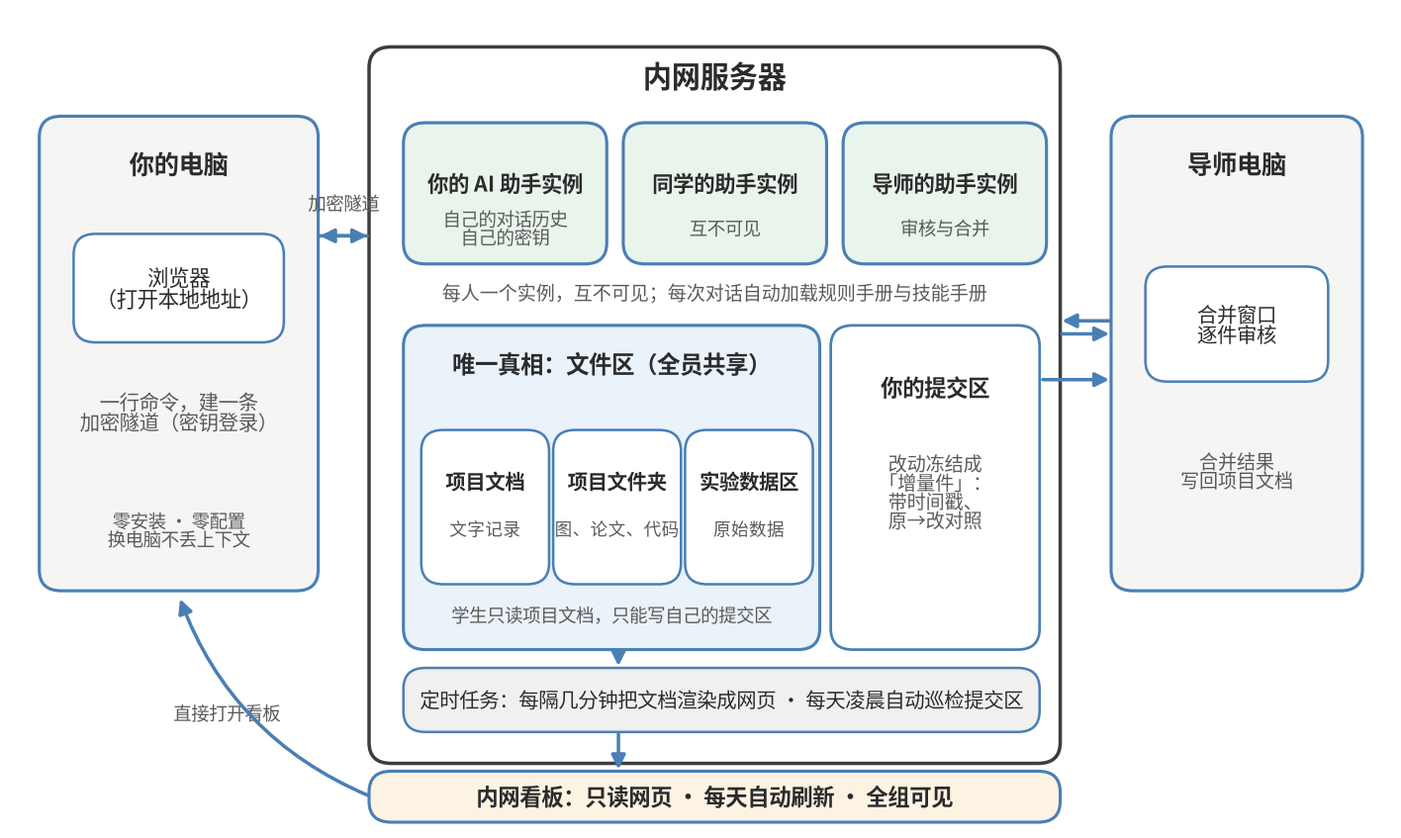
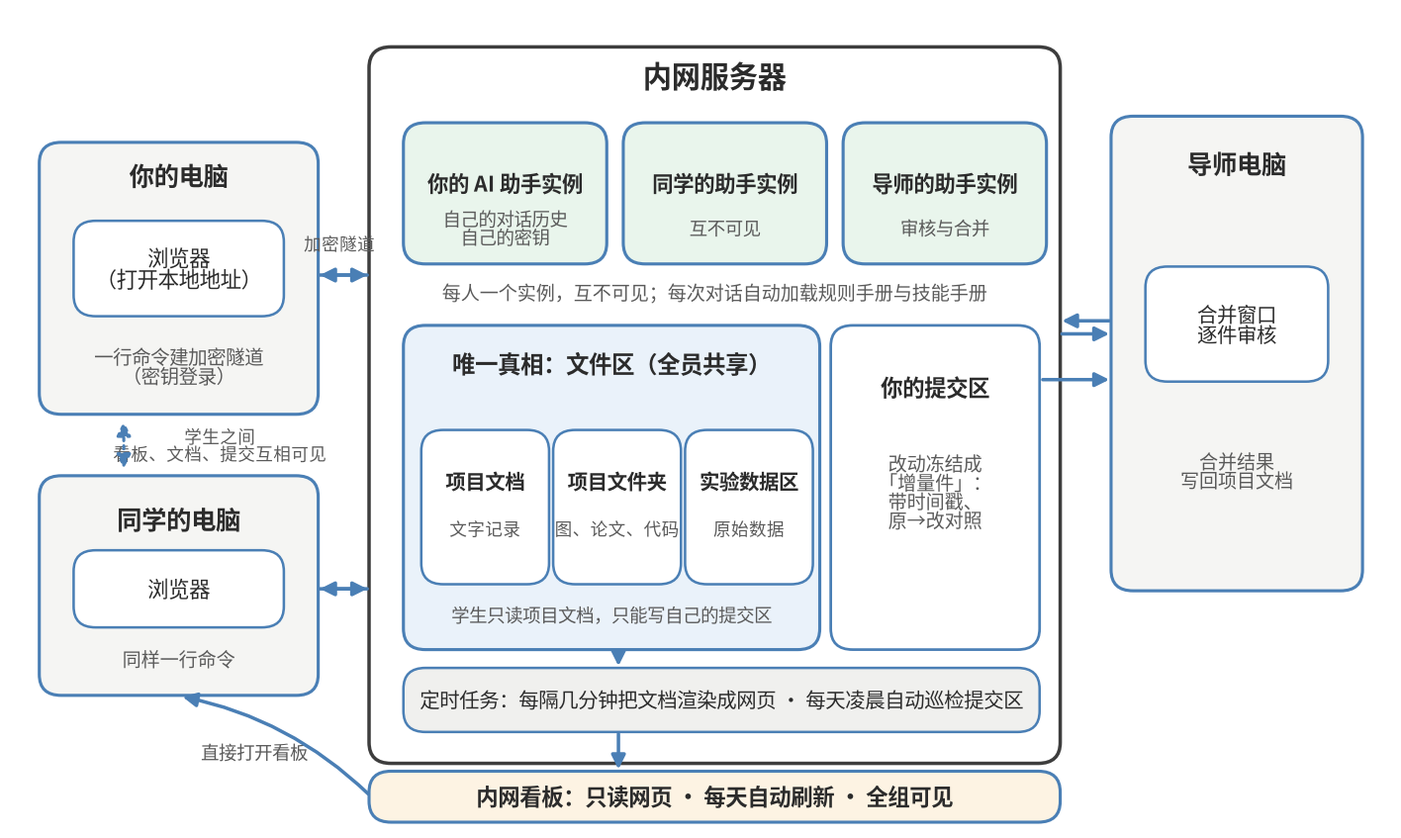
rebuilding site Fri Nov 27 07:54:58 AM CST 2026

Changed region(s): [[0.0, 0.1228, 0.2797, 0.9516], [0.2175, 0.7981, 0.2486, 0.8288]]

diff --git a/zh/post/xliu-35-ai-workflow-student-guide/index.html b/zh/post/xliu-35-ai-workflow-student-guide/index.html
@@ -1,1 +1,1 @@
-<!doctype html><html lang=zh><head><meta charset=utf-8><meta http-equiv=X-UA-Compatible content="IE=edge,chrome=1"><title>从实验记录到组会汇报：我们课题组的 AI 协作工作流 - 刘训臣 | 山东科技大学 激光诊断实验室</title><meta name=viewport content="width=device-width,minimum-scale=1"><meta name=description content="学生视角的科研工作流：每天只写一条子课题步骤、每周一次四段论提交、内网看板每天可见——AI 助手在服务器上，人只管做实验、说一句话；文章也讲清了这套系统背后是怎么搭起来的"><meta name=generator content="Hugo 0.169.0"><meta name=robots content="index, follow"><meta name=author content="刘训臣"><link rel=stylesheet href=/xliu-group/ananke/css/main.02a37ad6c4e155c542d276915a0e3f83f5c7c5fec443350f6e60753f1679b7a7.css integrity="sha256-AqN61sThVcVC0naRWg4/g/XHxf7EQzUPbmB1PxZ5t6c=" crossorigin=anonymous><link rel=stylesheet href=/xliu-group/css/tables.css><script>(function(){"use strict";function t(){for(var t=document.querySelectorAll(".code-block .code-copy[hidden]"),e=0;e<t.length;e++)t[e].hidden=!1}document.readyState==="loading"?document.addEventListener("DOMContentLoaded",t):t();function e(e){var t=e.querySelector(".code-copy-label"),n=t?t.textContent:null;e.classList.add("is-copied"),t&&(t.textContent="Copied"),window.setTimeout(function(){e.classList.remove("is-copied"),t&&n!==null&&(t.textContent=n)},2e3)}function n(e){var n,t=document.createElement("textarea");t.value=e,t.setAttribute("readonly",""),t.style.position="absolute",t.style.left="-9999px",document.body.appendChild(t),t.select(),n=!1;try{n=document.execCommand("copy")}catch{n=!1}return document.body.removeChild(t),n}function s(t){var s,o,a,i=t.closest(".code-block");if(!i)return;if(s=i.querySelector("pre"),!s)return;a=s.querySelector("code")||s,o=a.innerText,navigator.clipboard&&navigator.clipboard.writeText?navigator.clipboard.writeText(o).then(function(){e(t)},function(){n(o)&&e(t)}):n(o)&&e(t)}document.addEventListener("click",function(e){var t=e.target.closest(".code-copy");t&&s(t)})})()</script><link rel=canonical href=https://liuxunchen.github.io/xliu-group/zh/post/xliu-35-ai-workflow-student-guide/><meta property="og:url" content="https://liuxunchen.github.io/xliu-group/zh/post/xliu-35-ai-workflow-student-guide/"><meta property="og:site_name" content="刘训臣 | 山东科技大学 激光诊断实验室"><meta property="og:title" content="从实验记录到组会汇报：我们课题组的 AI 协作工作流"><meta property="og:description" content="学生视角的科研工作流：每天只写一条子课题步骤、每周一次四段论提交、内网看板每天可见——AI 助手在服务器上，人只管做实验、说一句话；文章也讲清了这套系统背后是怎么搭起来的"><meta property="og:locale" content="zh"><meta property="og:type" content="article"><meta property="article:section" content="post"><meta property="article:published_time" content="2026-11-26T00:00:00+00:00"><meta property="article:modified_time" content="2026-11-26T00:00:00+00:00"><meta property="article:tag" content="教程"><meta itemprop=name content="从实验记录到组会汇报：我们课题组的 AI 协作工作流"><meta itemprop=description content="学生视角的科研工作流：每天只写一条子课题步骤、每周一次四段论提交、内网看板每天可见——AI 助手在服务器上，人只管做实验、说一句话；文章也讲清了这套系统背后是怎么搭起来的"><meta itemprop=datePublished content="2026-11-26T00:00:00+00:00"><meta itemprop=dateModified content="2026-11-26T00:00:00+00:00"><meta itemprop=wordCount content="4559"><meta itemprop=keywords content="教程"><meta name=twitter:card content="summary"><meta name=twitter:title content="从实验记录到组会汇报：我们课题组的 AI 协作工作流"><meta name=twitter:description content="学生视角的科研工作流：每天只写一条子课题步骤、每周一次四段论提交、内网看板每天可见——AI 助手在服务器上，人只管做实验、说一句话；文章也讲清了这套系统背后是怎么搭起来的"><script>if(typeof MathJax=="undefined"){window.MathJax={tex:{inlineMath:[["$","$"]],displayMath:[["$$","$$"]]}};const e=document.createElement("script");e.src="https://cdn.bootcss.com/mathjax/3.0.5/es5/tex-mml-chtml.js",e.async=!0,e.crossOrigin="anonymous",document.head.appendChild(e),console.log("MathJax initialized")}</script></head><body class="ma0 avenir bg-near-white production"><style>@media screen and (min-width:480px){#featured-image-948f0d8aba557b556c65e08e7a0b98b6{background-image:url(/xliu-group/zh/post/xliu-35-ai-workflow-student-guide/fig-week-loop_hu_6e3d5251b9c20d22.png)}}@media screen and (min-width:960px){#featured-image-948f0d8aba557b556c65e08e7a0b98b6{background-image:url(/xliu-group/zh/post/xliu-35-ai-workflow-student-guide/fig-week-loop_hu_e4530177b0d14208.png)}}@media screen and (min-width:1440px){#featured-image-948f0d8aba557b556c65e08e7a0b98b6{background-image:url(/xliu-group/zh/post/xliu-35-ai-workflow-student-guide/fig-week-loop_hu_48152c4692202599.png)}}</style><header id=featured-image-948f0d8aba557b556c65e08e7a0b98b6 class="cover bg-center" style=background-image:url(/xliu-group/zh/post/xliu-35-ai-workflow-student-guide/fig-week-loop_hu_6e3d5251b9c20d22.png)><div class=bg-black-60><nav class="pv3 ph3 ph4-ns" role=navigation><div class="flex-l center items-center justify-between"><a href=/xliu-group/zh/ class="f3 fw2 hover-white white-90 dib no-underline"><img src=/xliu-group/images/logo2.jpg class="w100 mw5-ns" alt="刘训臣 | 山东科技大学 激光诊断实验室"></a><div class="flex-l items-center"><ul class="pl0 mr3"><li class="list f5 f4-ns fw4 dib pr3"><a class="hover-white white-90 no-underline" href=/xliu-group/zh/research/ title="Research 页">Research</a></li><li class="list f5 f4-ns fw4 dib pr3"><a class="hover-white white-90 no-underline" href=/xliu-group/zh/teaching/ title="Teaching 页">Teaching</a></li><li class="list f5 f4-ns fw4 dib pr3"><a class="hover-white white-90 no-underline" href=/xliu-group/zh/paper/ title="Paper 页">Paper</a></li><li class="list f5 f4-ns fw4 dib pr3"><a class="hover-white white-90 no-underline" href=/xliu-group/zh/search/ title="Search 页">Search</a></li><li class="list f5 f4-ns fw4 dib pr3"><a class="hover-white white-90 no-underline" href=/xliu-group/zh/news/ title="News 页">News</a></li><li class="list f5 f4-ns fw4 dib pr3"><a class="hover-white white-90 no-underline" href=/xliu-group/zh/people/ title="People 页">People</a></li><li class="list f5 f4-ns fw4 dib pr3"><a class="hover-white white-90 no-underline" href=/xliu-group/zh/post/ title="Post 页">Post</a></li></ul><div class=ananke-socials></div></div></div></nav><div class="tc-l pv6 ph3 ph4-ns"><div class="f2 f1-l fw2 white-90 mb0 lh-title">从实验记录到组会汇报：我们课题组的 AI 协作工作流</div></div></div></header><main class=pb7 role=main><div class="flex-l mt2 mw8 center"><article class="page-xliu-35-ai-workflow-student-guide center cf pv5 ph3 ph4-ns mw7"><header><h1 class=f1>从实验记录到组会汇报：我们课题组的 AI 协作工作流</h1><p class=tracked><strong>刘训臣</strong><time class="f6 fw4 light-silver ml2" datetime=2026-11-26>2026-11-26</time></p></header><div class="nested-copy-line-height lh-copy f4 nested-links blue"><blockquote><p>这是一篇写给新同学看的经验帖：我们实验室怎么用「服务器上的 AI 助手 + 内网看板」，把日常实验记录、提交、组会汇报串成一条线。文中截图来自组内看板（内网只读页面，2026-11-26 的快照），示意图由我们绘制。</p></blockquote><h2 id=一先解决三个问题>一、先解决三个问题</h2><p>刚进组的时候，记录是散的：实验日志在某台电脑的某个文件夹里，图在另一个地方，组会前一天才开始回想这周到底做了什么；笔记本、台式机、服务器各存一份，谁也说不清哪份是最新。</p><p>后来我们定了很朴素的三条规矩：</p><ol><li><strong>两个唯一真相</strong>：文字记录只写进<strong>项目文档</strong>（服务器上的 Markdown 文件）；图、论文、代码等文件只存<strong>项目文件夹</strong>；原始大数据进<strong>实验数据区</strong>（统一目录，处理过程与原始数据同放）。</li><li><strong>每天只做一件手写的事</strong>：把当天做的实验、仿真或数据处理，记成一条<strong>子课题步骤</strong>。</li><li><strong>AI 助手在服务器上运行，不在你自己的电脑上</strong>：你只要一条隧道加一个浏览器（或内网网页），记录、整理、生成汇报、提交都在服务器上完成；本机只做必须用图形界面的事——画图、采集数据、建模。</li></ol><p>听上去约束不少，但换来的是：所有东西可追溯、组会不用现攒、换了会话 AI 也能接上。</p><h2 id=二一周怎么跑>二、一周怎么跑</h2><figure><img src=/xliu-group/zh/post/xliu-35-ai-workflow-student-guide/fig-week-loop.png><figcaption><h4>图 1　学生视角的一周闭环：每天只写一条步骤，四段论与任务表由助手从步骤自动生成</h4></figcaption></figure><p><strong>每天开工：问一句"今天做什么"。</strong> 助手会带你过一遍"开工六看"：身份与端口信息、本周组会记录里的任务表（你这行）、@你的待办、你项目文档里的本周步骤、组内博客最新更新、内网看板的每日体检。确认今天的优先级，就可以开工了。</p><p><strong>做完就记：一条步骤。</strong> 这是全程唯一要手写的东西。比如"今天在平面火焰台上做了三个工况的点火实验，测到点火延迟随当量比的变化，图已存项目文件夹，原始数据在实验数据区"。写清目的、方法、结果和产物——<strong>文字进项目文档，图进项目文件夹，原始数据进实验数据区并登记</strong>。当天事当天记，不攒到周五。</p><p><strong>周三：口头讲进展。</strong> 说一句"本周进展"，助手从本周步骤自动汇总要点，你在组会上直接讲——<strong>要点只从步骤来</strong>。步骤没写，汇报就没有内容，这反过来逼着大家平时就记。</p><p><strong>周五 9:00 前：准备组会。</strong> 顺序固定三步：先<strong>体检本周步骤</strong>（有没有漏记、上周计划是否都有对应步骤）→ 由步骤<strong>自动生成四段论</strong>（已完成 / 未完成+原因 / 下周计划 / 安全核可表）→ 把本周改动<strong>冻结成一个提交件</strong>上传。<strong>四段论不手写</strong>——手写的四段论如果指不回具体步骤，会被退回。</p><p><strong>组会后：合并与验收。</strong> 导师按时间链逐件看、逐件合并，合并结果回写到项目文档；下周一组会逐项验收，验收不通过就退回。<strong>下周计划直接从"没闭环的任务"里取</strong>，不需要凭空想。</p><h2 id=三提交件长什么样>三、提交件长什么样</h2><figure><img src=/xliu-group/zh/post/xliu-35-ai-workflow-student-guide/fig-pr-chain.png><figcaption><h4>图 2　提交件 = 增量链：一次一版、逐件累加合并</h4></figcaption></figure><p>我们的提交件叫<strong>增量件</strong>：每次提交<strong>冻结一个新文件</strong>，文件名带时间戳和类型标识（平时记步骤的"工作件"、周五汇报用的"周五件"），<strong>不覆盖自己上一次，也不覆盖别人</strong>。每件只写本次改动，件内必须自带两样东西：</p><ul><li><strong>「原→改」对照</strong>：这一处原来是什么、改成什么，方便导师核对；</li><li><strong>「改后新片段」</strong>：可以直接粘贴的完整片段，粒度至少到一条完整步骤（或整节、整篇替换块）。</li></ul><p>再加<strong>三件配套</strong>：① 文档增量件本身；② 涉及的图已上传到项目文件夹、并在文中用图片语法引用；③ 本周实验数据已提交到实验数据区。件头写清提交人、时间戳和基线（相对哪一版项目文档）。</p><p>不合格会被<strong>退回</strong>：文件名加上"退回 + 原因"标记，内网看板上一眼能看到。退回原因就七类：缺合规声明、四段论缺段、无步骤编号、步骤引用无效、缺改动对照、声明不一致、安全核可表的设备清单模糊。重交件必须完整自足，旧件即时归档。</p><h2 id=四内网看板把组会前才知道变成每天可见>四、内网看板：把"组会前才知道"变成"每天可见"</h2><p>我们有一个内网只读看板，每天自动刷新。它不存第二份真相，只是把服务器上的唯一真相<strong>汇总成视图</strong>：</p><figure><img src=/xliu-group/zh/post/xliu-35-ai-workflow-student-guide/fig-board-daily.jpg><figcaption><h4>图 3　内网看板主页（局部）：每日体检按「今天是一周里的哪一天」切换检查标准</h4></figcaption></figure><ul><li><strong>每日体检</strong>：按"今天是一周里的哪一天"切标准——日程体检看实验场次有没有撞上上课时间；核可表冲突看跨项目是否在同一时段共用设备、场地、人员。自己项目被点名，当天先核对。</li><li><strong>本周日程 + 项目文档总览</strong>：一张表看全周实验场次；每份项目文档的负责人、参与人和本周进度体检（步骤是否更新、周五件是否已交）一眼可见。</li><li><strong>组会记录页</strong>：每周一份档案，过程记录、任务表、待办、周总结都在里面，按周归档、一页直达。</li><li><strong>文档总览页</strong>：规则、模板、技能索引一页列出，找格式、找流程不用翻文件夹。</li></ul><figure><img src=/xliu-group/zh/post/xliu-35-ai-workflow-student-guide/fig-board-pr.jpg><figcaption><h4>图 4　PR 清零状态（看板页脚）：每天凌晨自动巡检提交区，把待处理件清到 0，页面直接显示件数、归档数与巡检时间</h4></figcaption></figure><p>还有<strong>学生提交件页</strong>和<strong>学生草稿页</strong>：前者是导师审阅入口，也是学生自己查"有没有带退回标记的件"的地方；后者汇总每人最新的博客与主页草稿。</p><h2 id=五这些功能是怎么搭起来的幕后版>五、这些功能是怎么搭起来的（幕后版）</h2><p>前四节讲的是"怎么用"，这一节讲"背后是什么"。说实话，我们自己也是用了一阵才搞明白：我们看到的只是一个对话窗口，真正干活的是<strong>服务器上的助手 + 两本手册 + 两份文件真相 + 一条自动渲染看板的流水线</strong>。</p><figure><img src=/xliu-group/zh/post/xliu-35-ai-workflow-student-guide/fig-architecture.png><figcaption><h4>图 5　幕后示意：每人一个助手实例，共享同一套文件真相；看板由服务器上的定时任务从文件渲染</h4></figcaption></figure><p><strong>一台服务器，每人一个助手。</strong> 我们用的助手是一个智能体运行时（DeepSeek Harness，简称 DSH）——它给大模型装上"读文件、写文件、跑命令"的手脚，再加一个网页界面。整个组共用一台内网服务器，<strong>每人一个独立实例</strong>：自己的账号、自己的对话历史、自己的密钥，互不可见。助手服务只监听服务器本机，网页上不设密码；我们每人用自己的服务器账户连一条加密隧道，把它映射到本机浏览器——<strong>本机零安装，换电脑只要重新敲一行命令</strong>，软件、密钥、会话历史都在服务器上你自己的账户里。每个实例都是一个常驻服务：开机自动拉起、崩了自动重启，升级和维护由导师那边统一做，我们只管用。</p><p><strong>权限写在服务器账户上。</strong> 谁能读什么、改什么，由服务器账户权限定死：项目文档区全员可读、学生只读；学生只能写自己的提交区、自己的项目文件夹和数据区。所以"提交走对话"不只是纪律——<strong>你直接在服务器上改项目文档，技术上就改不了</strong>，这正好和"提交件只含改动"的设计咬合在一起。</p><p><strong>两份文件真相。</strong> 助手的大脑是模型，但<strong>它的记忆全在服务器文件里</strong>：文字真相是每个项目一份的 Markdown 项目文档（项目概况、每周记录、子课题步骤……），图、论文、代码进项目文件夹，原始数据进实验数据区。模型本身不"记得"你上周干了什么——这正是"换一个会话、换一个助手也能接上"的原因：上下文不在模型脑子里，在文件里。</p><p><strong>两本手册。</strong> 光有模型和文件还不够，还得规定"怎么读、怎么写、按什么格式"。服务器上有两本手册，每次对话自动加载：<strong>规则手册</strong>——工作纪律、文档模板、口令表，全组读同一份，所以每个助手的行为一致；<strong>技能手册</strong>——每个标准动作一份分步说明，&ldquo;开工六看"&ldquo;记一条子课题"&ldquo;准备组会"&ldquo;上传数据"&ldquo;发博客"都是技能。助手不是凭感觉干，<strong>是按手册一步一步做</strong>。</p><p><strong>大模型具体在干什么。</strong> 模型只会两件事：听懂你的话、调用工具（读文件、写文件、跑命令、查网页）。我们用的那些功能，都是"读文件 → 按手册处理 → 写文件"的组合：</p><ul><li><strong>&ldquo;今天做什么&rdquo;</strong>：按"开工六看"技能，读本周组会记录（任务表里你的行、@你的待办）、你的项目文档（本周步骤）、看板上的每日体检——再按固定模板汇总给你。<strong>回答不是模型想出来的，是从文件里查出来的</strong>，所以每条都能指回原文。</li><li><strong>&ldquo;记一条子课题&rdquo;</strong>：把你口述的内容按模板整理成一条步骤，写进提交区的工作件，并渲染成网页让你当场预览。</li><li><strong>四段论</strong>：把本周所有步骤读出来，按"已完成 / 未完成+原因 / 下周计划 / 安全核可表"的规则逐条归类，每条标注对应步骤编号。<strong>四段论永远指得回步骤</strong>——它是从步骤汇总出来的视图，不是模型编的总结。</li><li><strong>提交件</strong>：先读服务器上最新版的项目文档，把你本周的改动冻结成一个带时间戳的新文件，件内自动生成"原→改"对照和可以直接粘贴的改后片段。导师在合并窗口逐件审核、合并回项目文档。</li><li><strong>看板</strong>：不是模型实时画的，而是<strong>服务器上的定时任务</strong>每隔几分钟把项目文档渲染成网页（每日体检、本周日程、文档总表、提交区状态），每天凌晨自动巡检提交区。模型只是这条流水线里"写文件"的一环，看板永远反映文件的真实状态。</li></ul><p><strong>为什么这样设计。</strong> 一句话：<strong>把"判断"留给模型，把"记忆"和"流程"留在文件与手册里。</strong> 模型会换、偶尔会错、上下文会丢；只要文件在、规则在、技能在，任何一个助手都能接着干。我们学生要做的，就是把该记的记进文件——剩下的交给这套组合。</p><h2 id=六踩过的坑都真踩过>六、踩过的坑（都真踩过）</h2><ol><li><strong>只传不报 = 没上传。</strong> 用 rsync 把文件丢上服务器，却没在对话里说、没登记、没随提交件提交——导师看不到、AI 不知道，等于没做。</li><li><strong>图只写文件名 = 看不到。</strong> 文档里只写"图 1、图 2"而没用图片语法引用原图，看板渲染出来是没有图的，直接判违规退回。</li><li><strong>四段论手写 = 退回。</strong> 手写四段论容易编，条目也指不回步骤；正确做法是记好步骤，让助手生成。</li><li><strong>提交件不带改动对照 = 退回。</strong> 只给结论、不给「原→改」和改后片段，导师没法核，退回重交。</li><li><strong>基线过期 = 整篇对不上。</strong> 改文档必须从服务器最新版出发；拿旧副本改出来的差异整篇都错，只能重做。</li><li><strong>文件权限不对 = 导师读不到 = 没提交。</strong> 写完立刻自查权限（应为全组可读、组为 students），不对当场修；现在系统每 5 分钟自动兜底一次，但不能依赖它。</li><li><strong>组会前几分钟才交。</strong> 周五件至少提前 3 小时（9:00 前）提交，否则组会没法看、合并窗口也来不及。</li><li><strong>一次改一大片。</strong> 一条任务只做一件事；一次提交只含当次改动。大改用整节替换块，不要写"半截改动&rdquo;。</li></ol><h2 id=七这套做法带来了什么>七、这套做法带来了什么</h2><ul><li><strong>组会不再现攒</strong>：四段论从平时的步骤自动生成，周五只是"确认 + 提交&rdquo;。</li><li><strong>可追溯</strong>：每条结论都能回到某条步骤、某次提交、某个时间点；导师的每条指导都有编号、状态和验收记录。</li><li><strong>AI 接得续</strong>：换一个会话、换一个助手，读一遍项目文档和组会记录就能接上，不需要你重新讲一遍背景。</li><li><strong>数据不丢</strong>：文字、图、原始数据各有唯一去处，临时文件不进同步盘。</li><li><strong>新人上手快</strong>：规则一页读完（工作规则 + 连接卡），每周固定动作照做即可。</li></ul><h2 id=八给新同学的三句话>八、给新同学的三句话</h2><ol><li><strong>当天事当天记</strong>：一条步骤就行，别攒到周五。</li><li><strong>提交走对话、一次一版</strong>：提交件只含改动、带对照，文件名带时间戳。</li><li><strong>先看看板，再动手</strong>：任务在哪、这周排了什么、自己有没有要退回的件，看板上都有。</li></ol><hr><p><em>文中截图来自组内看板（内网只读预览页，2026-11-26 快照），已隐去与本文无关的细节；图 1、图 2、图 5 为示意图。</em></p></div></article></div></main><footer class="bg-black bottom-0 w-100 pa3" role=contentinfo><div class="flex justify-between"><a class="f4 fw4 hover-white white-70 dn dib-ns pv2 ph3 no-underline" href=https://liuxunchen.github.io/xliu-group/zh/>&copy; 刘训臣 | 山东科技大学 激光诊断实验室 2026</a><div><div class=ananke-socials></div></div></div></footer></body></html>
+<!doctype html><html lang=zh><head><meta charset=utf-8><meta http-equiv=X-UA-Compatible content="IE=edge,chrome=1"><title>从实验记录到组会汇报：我们课题组的 AI 协作工作流 - 刘训臣 | 山东科技大学 激光诊断实验室</title><meta name=viewport content="width=device-width,minimum-scale=1"><meta name=description content="学生视角的科研工作流：每天只写一条子课题步骤、每周一次四段论提交、内网看板每天可见——AI 助手在服务器上，人只管做实验、说一句话；文章也讲清了这套系统背后是怎么搭起来的"><meta name=generator content="Hugo 0.169.0"><meta name=robots content="index, follow"><meta name=author content="刘训臣"><link rel=stylesheet href=/xliu-group/ananke/css/main.02a37ad6c4e155c542d276915a0e3f83f5c7c5fec443350f6e60753f1679b7a7.css integrity="sha256-AqN61sThVcVC0naRWg4/g/XHxf7EQzUPbmB1PxZ5t6c=" crossorigin=anonymous><link rel=stylesheet href=/xliu-group/css/tables.css><script>(function(){"use strict";function t(){for(var t=document.querySelectorAll(".code-block .code-copy[hidden]"),e=0;e<t.length;e++)t[e].hidden=!1}document.readyState==="loading"?document.addEventListener("DOMContentLoaded",t):t();function e(e){var t=e.querySelector(".code-copy-label"),n=t?t.textContent:null;e.classList.add("is-copied"),t&&(t.textContent="Copied"),window.setTimeout(function(){e.classList.remove("is-copied"),t&&n!==null&&(t.textContent=n)},2e3)}function n(e){var n,t=document.createElement("textarea");t.value=e,t.setAttribute("readonly",""),t.style.position="absolute",t.style.left="-9999px",document.body.appendChild(t),t.select(),n=!1;try{n=document.execCommand("copy")}catch{n=!1}return document.body.removeChild(t),n}function s(t){var s,o,a,i=t.closest(".code-block");if(!i)return;if(s=i.querySelector("pre"),!s)return;a=s.querySelector("code")||s,o=a.innerText,navigator.clipboard&&navigator.clipboard.writeText?navigator.clipboard.writeText(o).then(function(){e(t)},function(){n(o)&&e(t)}):n(o)&&e(t)}document.addEventListener("click",function(e){var t=e.target.closest(".code-copy");t&&s(t)})})()</script><link rel=canonical href=https://liuxunchen.github.io/xliu-group/zh/post/xliu-35-ai-workflow-student-guide/><meta property="og:url" content="https://liuxunchen.github.io/xliu-group/zh/post/xliu-35-ai-workflow-student-guide/"><meta property="og:site_name" content="刘训臣 | 山东科技大学 激光诊断实验室"><meta property="og:title" content="从实验记录到组会汇报：我们课题组的 AI 协作工作流"><meta property="og:description" content="学生视角的科研工作流：每天只写一条子课题步骤、每周一次四段论提交、内网看板每天可见——AI 助手在服务器上，人只管做实验、说一句话；文章也讲清了这套系统背后是怎么搭起来的"><meta property="og:locale" content="zh"><meta property="og:type" content="article"><meta property="article:section" content="post"><meta property="article:published_time" content="2026-11-26T00:00:00+00:00"><meta property="article:modified_time" content="2026-11-26T00:00:00+00:00"><meta property="article:tag" content="教程"><meta itemprop=name content="从实验记录到组会汇报：我们课题组的 AI 协作工作流"><meta itemprop=description content="学生视角的科研工作流：每天只写一条子课题步骤、每周一次四段论提交、内网看板每天可见——AI 助手在服务器上，人只管做实验、说一句话；文章也讲清了这套系统背后是怎么搭起来的"><meta itemprop=datePublished content="2026-11-26T00:00:00+00:00"><meta itemprop=dateModified content="2026-11-26T00:00:00+00:00"><meta itemprop=wordCount content="4568"><meta itemprop=keywords content="教程"><meta name=twitter:card content="summary"><meta name=twitter:title content="从实验记录到组会汇报：我们课题组的 AI 协作工作流"><meta name=twitter:description content="学生视角的科研工作流：每天只写一条子课题步骤、每周一次四段论提交、内网看板每天可见——AI 助手在服务器上，人只管做实验、说一句话；文章也讲清了这套系统背后是怎么搭起来的"><script>if(typeof MathJax=="undefined"){window.MathJax={tex:{inlineMath:[["$","$"]],displayMath:[["$$","$$"]]}};const e=document.createElement("script");e.src="https://cdn.bootcss.com/mathjax/3.0.5/es5/tex-mml-chtml.js",e.async=!0,e.crossOrigin="anonymous",document.head.appendChild(e),console.log("MathJax initialized")}</script></head><body class="ma0 avenir bg-near-white production"><style>@media screen and (min-width:480px){#featured-image-948f0d8aba557b556c65e08e7a0b98b6{background-image:url(/xliu-group/zh/post/xliu-35-ai-workflow-student-guide/fig-week-loop_hu_6e3d5251b9c20d22.png)}}@media screen and (min-width:960px){#featured-image-948f0d8aba557b556c65e08e7a0b98b6{background-image:url(/xliu-group/zh/post/xliu-35-ai-workflow-student-guide/fig-week-loop_hu_e4530177b0d14208.png)}}@media screen and (min-width:1440px){#featured-image-948f0d8aba557b556c65e08e7a0b98b6{background-image:url(/xliu-group/zh/post/xliu-35-ai-workflow-student-guide/fig-week-loop_hu_48152c4692202599.png)}}</style><header id=featured-image-948f0d8aba557b556c65e08e7a0b98b6 class="cover bg-center" style=background-image:url(/xliu-group/zh/post/xliu-35-ai-workflow-student-guide/fig-week-loop_hu_6e3d5251b9c20d22.png)><div class=bg-black-60><nav class="pv3 ph3 ph4-ns" role=navigation><div class="flex-l center items-center justify-between"><a href=/xliu-group/zh/ class="f3 fw2 hover-white white-90 dib no-underline"><img src=/xliu-group/images/logo2.jpg class="w100 mw5-ns" alt="刘训臣 | 山东科技大学 激光诊断实验室"></a><div class="flex-l items-center"><ul class="pl0 mr3"><li class="list f5 f4-ns fw4 dib pr3"><a class="hover-white white-90 no-underline" href=/xliu-group/zh/research/ title="Research 页">Research</a></li><li class="list f5 f4-ns fw4 dib pr3"><a class="hover-white white-90 no-underline" href=/xliu-group/zh/teaching/ title="Teaching 页">Teaching</a></li><li class="list f5 f4-ns fw4 dib pr3"><a class="hover-white white-90 no-underline" href=/xliu-group/zh/paper/ title="Paper 页">Paper</a></li><li class="list f5 f4-ns fw4 dib pr3"><a class="hover-white white-90 no-underline" href=/xliu-group/zh/search/ title="Search 页">Search</a></li><li class="list f5 f4-ns fw4 dib pr3"><a class="hover-white white-90 no-underline" href=/xliu-group/zh/news/ title="News 页">News</a></li><li class="list f5 f4-ns fw4 dib pr3"><a class="hover-white white-90 no-underline" href=/xliu-group/zh/people/ title="People 页">People</a></li><li class="list f5 f4-ns fw4 dib pr3"><a class="hover-white white-90 no-underline" href=/xliu-group/zh/post/ title="Post 页">Post</a></li></ul><div class=ananke-socials></div></div></div></nav><div class="tc-l pv6 ph3 ph4-ns"><div class="f2 f1-l fw2 white-90 mb0 lh-title">从实验记录到组会汇报：我们课题组的 AI 协作工作流</div></div></div></header><main class=pb7 role=main><div class="flex-l mt2 mw8 center"><article class="page-xliu-35-ai-workflow-student-guide center cf pv5 ph3 ph4-ns mw7"><header><h1 class=f1>从实验记录到组会汇报：我们课题组的 AI 协作工作流</h1><p class=tracked><strong>刘训臣</strong><time class="f6 fw4 light-silver ml2" datetime=2026-11-26>2026-11-26</time></p></header><div class="nested-copy-line-height lh-copy f4 nested-links blue"><blockquote><p>这是一篇写给新同学看的经验帖：我们实验室怎么用「服务器上的 AI 助手 + 内网看板」，把日常实验记录、提交、组会汇报串成一条线。文中截图来自组内看板（内网只读页面，2026-11-26 的快照），示意图由我们绘制。</p></blockquote><h2 id=一先解决三个问题>一、先解决三个问题</h2><p>刚进组的时候，记录是散的：实验日志在某台电脑的某个文件夹里，图在另一个地方，组会前一天才开始回想这周到底做了什么；笔记本、台式机、服务器各存一份，谁也说不清哪份是最新。</p><p>后来我们定了很朴素的三条规矩：</p><ol><li><strong>两个唯一真相</strong>：文字记录只写进<strong>项目文档</strong>（服务器上的 Markdown 文件）；图、论文、代码等文件只存<strong>项目文件夹</strong>；原始大数据进<strong>实验数据区</strong>（统一目录，处理过程与原始数据同放）。</li><li><strong>每天只做一件手写的事</strong>：把当天做的实验、仿真或数据处理，记成一条<strong>子课题步骤</strong>。</li><li><strong>AI 助手在服务器上运行，不在你自己的电脑上</strong>：你只要一条隧道加一个浏览器（或内网网页），记录、整理、生成汇报、提交都在服务器上完成；本机只做必须用图形界面的事——画图、采集数据、建模。</li></ol><p>听上去约束不少，但换来的是：所有东西可追溯、组会不用现攒、换了会话 AI 也能接上。</p><h2 id=二一周怎么跑>二、一周怎么跑</h2><figure><img src=/xliu-group/zh/post/xliu-35-ai-workflow-student-guide/fig-week-loop.png><figcaption><h4>图 1　学生视角的一周闭环：每天只写一条步骤，四段论与任务表由助手从步骤自动生成</h4></figcaption></figure><p><strong>每天开工：问一句"今天做什么"。</strong> 助手会带你过一遍"开工六看"：身份与端口信息、本周组会记录里的任务表（你这行）、@你的待办、你项目文档里的本周步骤、组内博客最新更新、内网看板的每日体检。确认今天的优先级，就可以开工了。</p><p><strong>做完就记：一条步骤。</strong> 这是全程唯一要手写的东西。比如"今天在平面火焰台上做了三个工况的点火实验，测到点火延迟随当量比的变化，图已存项目文件夹，原始数据在实验数据区"。写清目的、方法、结果和产物——<strong>文字进项目文档，图进项目文件夹，原始数据进实验数据区并登记</strong>。当天事当天记，不攒到周五。</p><p><strong>周三：口头讲进展。</strong> 说一句"本周进展"，助手从本周步骤自动汇总要点，你在组会上直接讲——<strong>要点只从步骤来</strong>。步骤没写，汇报就没有内容，这反过来逼着大家平时就记。</p><p><strong>周五 9:00 前：准备组会。</strong> 顺序固定三步：先<strong>体检本周步骤</strong>（有没有漏记、上周计划是否都有对应步骤）→ 由步骤<strong>自动生成四段论</strong>（已完成 / 未完成+原因 / 下周计划 / 安全核可表）→ 把本周改动<strong>冻结成一个提交件</strong>上传。<strong>四段论不手写</strong>——手写的四段论如果指不回具体步骤，会被退回。</p><p><strong>组会后：合并与验收。</strong> 导师按时间链逐件看、逐件合并，合并结果回写到项目文档；下周一组会逐项验收，验收不通过就退回。<strong>下周计划直接从"没闭环的任务"里取</strong>，不需要凭空想。</p><h2 id=三提交件长什么样>三、提交件长什么样</h2><figure><img src=/xliu-group/zh/post/xliu-35-ai-workflow-student-guide/fig-pr-chain.png><figcaption><h4>图 2　提交件 = 增量链：一次一版、逐件累加合并</h4></figcaption></figure><p>我们的提交件叫<strong>增量件</strong>：每次提交<strong>冻结一个新文件</strong>，文件名带时间戳和类型标识（平时记步骤的"工作件"、周五汇报用的"周五件"），<strong>不覆盖自己上一次，也不覆盖别人</strong>。每件只写本次改动，件内必须自带两样东西：</p><ul><li><strong>「原→改」对照</strong>：这一处原来是什么、改成什么，方便导师核对；</li><li><strong>「改后新片段」</strong>：可以直接粘贴的完整片段，粒度至少到一条完整步骤（或整节、整篇替换块）。</li></ul><p>再加<strong>三件配套</strong>：① 文档增量件本身；② 涉及的图已上传到项目文件夹、并在文中用图片语法引用；③ 本周实验数据已提交到实验数据区。件头写清提交人、时间戳和基线（相对哪一版项目文档）。</p><p>不合格会被<strong>退回</strong>：文件名加上"退回 + 原因"标记，内网看板上一眼能看到。退回原因就七类：缺合规声明、四段论缺段、无步骤编号、步骤引用无效、缺改动对照、声明不一致、安全核可表的设备清单模糊。重交件必须完整自足，旧件即时归档。</p><h2 id=四内网看板把组会前才知道变成每天可见>四、内网看板：把"组会前才知道"变成"每天可见"</h2><p>我们有一个内网只读看板，每天自动刷新。它不存第二份真相，只是把服务器上的唯一真相<strong>汇总成视图</strong>：</p><figure><img src=/xliu-group/zh/post/xliu-35-ai-workflow-student-guide/fig-board-daily.jpg><figcaption><h4>图 3　内网看板主页（局部）：每日体检按「今天是一周里的哪一天」切换检查标准</h4></figcaption></figure><ul><li><strong>每日体检</strong>：按"今天是一周里的哪一天"切标准——日程体检看实验场次有没有撞上上课时间；核可表冲突看跨项目是否在同一时段共用设备、场地、人员。自己项目被点名，当天先核对。</li><li><strong>本周日程 + 项目文档总览</strong>：一张表看全周实验场次；每份项目文档的负责人、参与人和本周进度体检（步骤是否更新、周五件是否已交）一眼可见。</li><li><strong>组会记录页</strong>：每周一份档案，过程记录、任务表、待办、周总结都在里面，按周归档、一页直达。</li><li><strong>文档总览页</strong>：规则、模板、技能索引一页列出，找格式、找流程不用翻文件夹。</li></ul><figure><img src=/xliu-group/zh/post/xliu-35-ai-workflow-student-guide/fig-board-pr.jpg><figcaption><h4>图 4　PR 清零状态（看板页脚）：每天凌晨自动巡检提交区，把待处理件清到 0，页面直接显示件数、归档数与巡检时间</h4></figcaption></figure><p>还有<strong>学生提交件页</strong>和<strong>学生草稿页</strong>：前者是导师审阅入口，也是学生自己查"有没有带退回标记的件"的地方；后者汇总每人最新的博客与主页草稿。</p><h2 id=五这些功能是怎么搭起来的幕后版>五、这些功能是怎么搭起来的（幕后版）</h2><p>前四节讲的是"怎么用"，这一节讲"背后是什么"。说实话，我们自己也是用了一阵才搞明白：我们看到的只是一个对话窗口，真正干活的是<strong>服务器上的助手 + 两本手册 + 两份文件真相 + 一条自动渲染看板的流水线</strong>。</p><figure><img src=/xliu-group/zh/post/xliu-35-ai-workflow-student-guide/fig-architecture.png><figcaption><h4>图 5　幕后示意：每人一个助手实例，学生之间经服务器共享看板、文档与提交；看板由服务器上的定时任务从文件渲染</h4></figcaption></figure><p><strong>一台服务器，每人一个助手。</strong> 我们用的助手是一个智能体运行时（DeepSeek Harness，简称 DSH）——它给大模型装上"读文件、写文件、跑命令"的手脚，再加一个网页界面。整个组共用一台内网服务器，<strong>每人一个独立实例</strong>：自己的账号、自己的对话历史、自己的密钥，互不可见。助手服务只监听服务器本机，网页上不设密码；我们每人用自己的服务器账户连一条加密隧道，把它映射到本机浏览器——<strong>本机零安装，换电脑只要重新敲一行命令</strong>，软件、密钥、会话历史都在服务器上你自己的账户里。每个实例都是一个常驻服务：开机自动拉起、崩了自动重启，升级和维护由导师那边统一做，我们只管用。</p><p><strong>权限写在服务器账户上。</strong> 谁能读什么、改什么，由服务器账户权限定死：项目文档区全员可读、学生只读；学生只能写自己的提交区、自己的项目文件夹和数据区。所以"提交走对话"不只是纪律——<strong>你直接在服务器上改项目文档，技术上就改不了</strong>，这正好和"提交件只含改动"的设计咬合在一起。</p><p><strong>两份文件真相。</strong> 助手的大脑是模型，但<strong>它的记忆全在服务器文件里</strong>：文字真相是每个项目一份的 Markdown 项目文档（项目概况、每周记录、子课题步骤……），图、论文、代码进项目文件夹，原始数据进实验数据区。模型本身不"记得"你上周干了什么——这正是"换一个会话、换一个助手也能接上"的原因：上下文不在模型脑子里，在文件里。</p><p><strong>两本手册。</strong> 光有模型和文件还不够，还得规定"怎么读、怎么写、按什么格式"。服务器上有两本手册，每次对话自动加载：<strong>规则手册</strong>——工作纪律、文档模板、口令表，全组读同一份，所以每个助手的行为一致；<strong>技能手册</strong>——每个标准动作一份分步说明，&ldquo;开工六看"&ldquo;记一条子课题"&ldquo;准备组会"&ldquo;上传数据"&ldquo;发博客"都是技能。助手不是凭感觉干，<strong>是按手册一步一步做</strong>。</p><p><strong>大模型具体在干什么。</strong> 模型只会两件事：听懂你的话、调用工具（读文件、写文件、跑命令、查网页）。我们用的那些功能，都是"读文件 → 按手册处理 → 写文件"的组合：</p><ul><li><strong>&ldquo;今天做什么&rdquo;</strong>：按"开工六看"技能，读本周组会记录（任务表里你的行、@你的待办）、你的项目文档（本周步骤）、看板上的每日体检——再按固定模板汇总给你。<strong>回答不是模型想出来的，是从文件里查出来的</strong>，所以每条都能指回原文。</li><li><strong>&ldquo;记一条子课题&rdquo;</strong>：把你口述的内容按模板整理成一条步骤，写进提交区的工作件，并渲染成网页让你当场预览。</li><li><strong>四段论</strong>：把本周所有步骤读出来，按"已完成 / 未完成+原因 / 下周计划 / 安全核可表"的规则逐条归类，每条标注对应步骤编号。<strong>四段论永远指得回步骤</strong>——它是从步骤汇总出来的视图，不是模型编的总结。</li><li><strong>提交件</strong>：先读服务器上最新版的项目文档，把你本周的改动冻结成一个带时间戳的新文件，件内自动生成"原→改"对照和可以直接粘贴的改后片段。导师在合并窗口逐件审核、合并回项目文档。</li><li><strong>看板</strong>：不是模型实时画的，而是<strong>服务器上的定时任务</strong>每隔几分钟把项目文档渲染成网页（每日体检、本周日程、文档总表、提交区状态），每天凌晨自动巡检提交区。模型只是这条流水线里"写文件"的一环，看板永远反映文件的真实状态。</li></ul><p><strong>为什么这样设计。</strong> 一句话：<strong>把"判断"留给模型，把"记忆"和"流程"留在文件与手册里。</strong> 模型会换、偶尔会错、上下文会丢；只要文件在、规则在、技能在，任何一个助手都能接着干。我们学生要做的，就是把该记的记进文件——剩下的交给这套组合。</p><h2 id=六踩过的坑都真踩过>六、踩过的坑（都真踩过）</h2><ol><li><strong>只传不报 = 没上传。</strong> 用 rsync 把文件丢上服务器，却没在对话里说、没登记、没随提交件提交——导师看不到、AI 不知道，等于没做。</li><li><strong>图只写文件名 = 看不到。</strong> 文档里只写"图 1、图 2"而没用图片语法引用原图，看板渲染出来是没有图的，直接判违规退回。</li><li><strong>四段论手写 = 退回。</strong> 手写四段论容易编，条目也指不回步骤；正确做法是记好步骤，让助手生成。</li><li><strong>提交件不带改动对照 = 退回。</strong> 只给结论、不给「原→改」和改后片段，导师没法核，退回重交。</li><li><strong>基线过期 = 整篇对不上。</strong> 改文档必须从服务器最新版出发；拿旧副本改出来的差异整篇都错，只能重做。</li><li><strong>文件权限不对 = 导师读不到 = 没提交。</strong> 写完立刻自查权限（应为全组可读、组为 students），不对当场修；现在系统每 5 分钟自动兜底一次，但不能依赖它。</li><li><strong>组会前几分钟才交。</strong> 周五件至少提前 3 小时（9:00 前）提交，否则组会没法看、合并窗口也来不及。</li><li><strong>一次改一大片。</strong> 一条任务只做一件事；一次提交只含当次改动。大改用整节替换块，不要写"半截改动&rdquo;。</li></ol><h2 id=七这套做法带来了什么>七、这套做法带来了什么</h2><ul><li><strong>组会不再现攒</strong>：四段论从平时的步骤自动生成，周五只是"确认 + 提交&rdquo;。</li><li><strong>可追溯</strong>：每条结论都能回到某条步骤、某次提交、某个时间点；导师的每条指导都有编号、状态和验收记录。</li><li><strong>AI 接得续</strong>：换一个会话、换一个助手，读一遍项目文档和组会记录就能接上，不需要你重新讲一遍背景。</li><li><strong>数据不丢</strong>：文字、图、原始数据各有唯一去处，临时文件不进同步盘。</li><li><strong>新人上手快</strong>：规则一页读完（工作规则 + 连接卡），每周固定动作照做即可。</li></ul><h2 id=八给新同学的三句话>八、给新同学的三句话</h2><ol><li><strong>当天事当天记</strong>：一条步骤就行，别攒到周五。</li><li><strong>提交走对话、一次一版</strong>：提交件只含改动、带对照，文件名带时间戳。</li><li><strong>先看看板，再动手</strong>：任务在哪、这周排了什么、自己有没有要退回的件，看板上都有。</li></ol><hr><p><em>文中截图来自组内看板（内网只读预览页，2026-11-26 快照），已隐去与本文无关的细节；图 1、图 2、图 5 为示意图。</em></p></div></article></div></main><footer class="bg-black bottom-0 w-100 pa3" role=contentinfo><div class="flex justify-between"><a class="f4 fw4 hover-white white-70 dn dib-ns pv2 ph3 no-underline" href=https://liuxunchen.github.io/xliu-group/zh/>&copy; 刘训臣 | 山东科技大学 激光诊断实验室 2026</a><div><div class=ananke-socials></div></div></div></footer></body></html>
